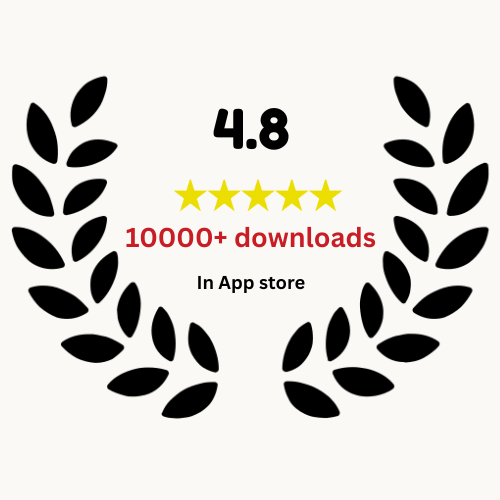
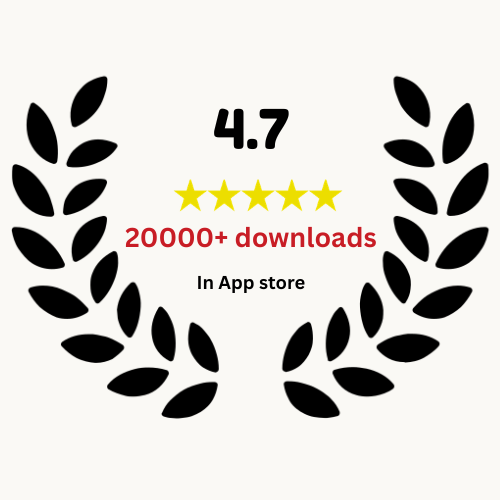
feat: Refine hero section layout and add store buttons

diff --git a/src/app/page.tsx b/src/app/page.tsx
@@ -1,25 +1,61 @@
 "use client";
 
-import React, { useState } from 'react';
+import React, { useState, useEffect } from 'react';
 import Link from 'next/link';
 import Image from 'next/image';
+
+const testimonials = [
+  "Amazing UI design and colors. Really clean and easy on the eyes",
+  "Love that weekly calendar part. So easy to see my past and next routines. Very efficient",
+  "Very clever concept with PR tracking. Other apps don't show your best specific set. Motivates me to beat it every time",
+  "Accidentally closed the app but my workout progress was saved. Great!",
+  "So easy to add custom exercises. Exactly what I needed",
+  "Always had issues searching exercises in other apps. Worried about missing spaces or hyphens, but this search actually works"
+];
+
+const faqs = [
+  {
+    question: "Why no social features?",
+    answer: "Because you are here to work out, not scroll"
+  },
+  {
+    question: "Will you add meal tracking?",
+    answer: "No. Use a dedicated nutrition app"
+  },
+  {
+    question: "Any notifications?",
+    answer: "Zero. Your workout time is sacred"
+  },
+  {
+    question: "Data export?",
+    answer: "Yes, your data stays yours"
+  },
+  {
+    question: "Can I create custom exercises?",
+    answer: "Yes, with your choice of exercise type and muscle groups. Build your workout, your way."
+  },
+  {
+    question: "Do you have training instructions?",
+    answer: "No, people use YouTube anyway. We assume you know how to exercise."
+  },
+  {
+    question: "How many exercises do you have?",
+    answer: "Nearly 1000, and we are adding constantly based on user requests."
+  }
+];
 
 export default function Home() {
   const [expandedFaq, setExpandedFaq] = useState<number | null>(null);
   const [testimonialIndex, setTestimonialIndex] = useState(0);
+  const [mounted, setMounted] = useState(false);
+
+  useEffect(() => {
+    setMounted(true);
+  }, []);
 
   const toggleFaq = (index: number) => {
     setExpandedFaq(expandedFaq === index ? null : index);
   };
-
-  const testimonials = [
-    "Amazing UI design and colors. Really clean and easy on the eyes",
-    "Love that weekly calendar part. So easy to see my past and next routines. Very efficient",
-    "Very clever concept with PR tracking. Other apps don't show your best specific set. Motivates me to beat it every time",
-    "Accidentally closed the app but my workout progress was saved. Great!",
-    "So easy to add custom exercises. Exactly what I needed",
-    "Always had issues searching exercises in other apps. Worried about missing spaces or hyphens, but this search actually works"
-  ];
 
   const nextTestimonial = () => {
     setTestimonialIndex((prev) => (prev + 1) % testimonials.length);
@@ -29,39 +65,8 @@ export default function Home() {
     setTestimonialIndex((prev) => (prev - 1 + testimonials.length) % testimonials.length);
   };
 
-  const faqs = [
-    {
-      question: "Why no social features?",
-      answer: "Because you are here to work out, not scroll"
-    },
-    {
-      question: "Will you add meal tracking?",
-      answer: "No. Use a dedicated nutrition app"
-    },
-    {
-      question: "Any notifications?",
-      answer: "Zero. Your workout time is sacred"
-    },
-    {
-      question: "Data export?",
-      answer: "Yes, your data stays yours"
-    },
-    {
-      question: "Can I create custom exercises?",
-      answer: "Yes, with your choice of exercise type and muscle groups. Build your workout, your way."
-    },
-    {
-      question: "Do you have training instructions?",
-      answer: "No, people use YouTube anyway. We assume you know how to exercise."
-    },
-    {
-      question: "How many exercises do you have?",
-      answer: "Nearly 1000, and we are adding constantly based on user requests."
-    }
-  ];
-
   return (
-    <div className="min-h-screen bg-[#FAF9F5] text-black font-['Vaground']">
+    <div className="min-h-screen bg-[#FAF9F5] text-black font-vaground">
       {/* Navigation - Simple */}
       <nav className="border-b border-gray-200 px-6 py-4 bg-[#FAF9F5]">
         <div className="max-w-6xl mx-auto flex justify-between items-center">
@@ -71,7 +76,13 @@ export default function Home() {
           </div>
           <div className="flex items-center gap-4">
             <a href="https://www.producthunt.com/products/just-log?embed=true&utm_source=badge-top-post-badge&utm_medium=badge&utm_source=badge-just&#0045;log&#0045;2" target="_blank">
-              <img src="https://api.producthunt.com/widgets/embed-image/v1/top-post-badge.svg?post_id=1010137&theme=dark&period=daily&t=1756632660193" alt="Just&#0032;Log - No&#0032;fluff&#0032;workout&#0032;tracker | Product Hunt" style={{width: '250px', height: '54px'}} width="250" height="54" />
+              <Image 
+                src="https://api.producthunt.com/widgets/embed-image/v1/top-post-badge.svg?post_id=1010137&theme=dark&period=daily&t=1756632660193" 
+                alt="Just Log - No fluff workout tracker | Product Hunt" 
+                width={250} 
+                height={54}
+                unoptimized
+              />
             </a>
           </div>
         </div>
@@ -79,56 +90,88 @@ export default function Home() {
 
       {/* Hero Section */}
       <section className="px-6 py-16 bg-[#FAF9F5]">
-        <div className="max-w-6xl mx-auto grid md:grid-cols-2 gap-12 items-center">
-          <div className="animate-slideInLeft">
-            <div className="flex mb-2">
-              <div className="ml-[7ch]">
-                <Image 
-                  src="/images/download.png" 
-                  alt="4.8 stars, 5000+ downloads in App Store" 
-                  width={100} 
-                  height={50}
-                  className="animate-fadeInUp"
-                />
-              </div>
-            </div>
+        <div className="max-w-6xl mx-auto flex flex-col md:flex-row items-center gap-12 animate-fadeInUp">
+
+          {/* Left Column — Text + Badge + Buttons */}
+          <div className="flex-1 flex flex-col items-start text-left">
             <h1 className="text-5xl md:text-6xl font-bold mb-4 leading-tight text-black">
               Just Log.<br />
               <span className="text-[#c81d25]">No Fluff.</span>
             </h1>
-            <h2 className="text-xl text-gray-700 mb-6">
+            <h2 className="text-xl text-gray-700 mb-4">
               The workout tracker that gets out of your way.
             </h2>
-            <p className="text-lg text-gray-800 mb-6 leading-relaxed">
-            🏋 Log it fast. See your progress. Stay consistent.<br/>
-            Track it → Beat it → Get stronger 💪
-                        </p>
+            <p className="text-lg text-gray-800 mb-8 leading-relaxed">
+              🏋 Log it fast. See your progress. Stay consistent.<br/>
+              Track it → Beat it → Get stronger 💪
+            </p>
+
+            {/* Download Badge */}
+            <div className="flex items-center gap-3 mb-6 animate-fadeInUp">
+              <Image 
+                src="/images/oliveleft.png" 
+                alt="Left Olive Branch" 
+                width={32} 
+                height={64}
+                className="object-contain"
+              />
+              <div className="flex flex-col items-center justify-center">
+                <span className="font-bold text-xl text-black leading-none mb-1">4.7</span>
+                <div className="flex text-[#FFB800] text-sm leading-none mb-1 tracking-[0.1em]">
+                  ★★★★★
+                </div>
+                <span className="text-[11px] font-sans font-bold text-[#c81d25] leading-none mb-0.5">20000+ downloads</span>
+                <span className="text-[9px] font-sans text-gray-500 font-medium leading-none">in App Store</span>
+              </div>
+              <Image 
+                src="/images/oliveright.png" 
+                alt="Right Olive Branch" 
+                width={32} 
+                height={64}
+                className="object-contain"
+              />
+            </div>
+
+            {/* Download Buttons */}
             <div className="flex flex-col sm:flex-row gap-4">
               <button 
-                onClick={() => window.open('https://play.google.com/store/apps/details?id=com.rimapps.justlog', '_blank')}
-                className="border-2 border-[#c81d25] bg-[#c81d25] text-white px-8 py-3 rounded-lg text-lg hover:bg-[#d80032] hover:scale-105 transition-all duration-300 flex items-center justify-center gap-2 hover:shadow-lg"
+                onClick={() => window.open('https://apps.apple.com/us/app/workout-tracking-justlog/id6749898793', '_blank')}
+                className="hover:scale-105 transition-transform duration-300"
               >
-                <Image src="/images/playstore.png" alt="Play Store" width={24} height={24} />
-                Download for Android
+                <Image 
+                  src="/images/app-store.png" 
+                  alt="Download on the App Store" 
+                  width={150} 
+                  height={45} 
+                  className="object-contain"
+                />
               </button>
               <button 
-                onClick={() => window.open('https://apps.apple.com/us/app/workout-tracking-justlog/id6749898793', '_blank')}
-                className="border-2 border-[#c81d25] bg-white text-[#c81d25] px-8 py-3 rounded-lg text-lg hover:bg-gray-50 hover:scale-105 transition-all duration-300 flex items-center justify-center gap-2 hover:shadow-lg"
+                onClick={() => window.open('https://play.google.com/store/apps/details?id=com.rimapps.justlog', '_blank')}
+                className="hover:scale-105 transition-transform duration-300"
               >
-                <Image src="/images/apple.png" alt="App Store" width={24} height={24} />
-                Download for iOS
+                <Image 
+                  src="/images/google-play.png" 
+                  alt="Get it on Google Play" 
+                  width={150} 
+                  height={45} 
+                  className="object-contain"
+                />
               </button>
             </div>
           </div>
-          <div className="flex justify-center animate-slideInRight">
+
+          {/* Right Column — App Screenshot */}
+          <div className="flex-shrink-0 flex justify-center animate-slideInRight">
             <Image 
               src="/images/gymlogauthpage.png" 
               alt="Just Log Auth Page"
-              width={320}
-              height={640}
+              width={300}
+              height={600}
               className="rounded-xl shadow-2xl border border-gray-300 animate-float"
             />
           </div>
+
         </div>
       </section>
 
@@ -350,7 +393,9 @@ export default function Home() {
               <div 
                 className="flex gap-8 transition-transform duration-500 ease-in-out"
                 style={{
-                  transform: `translateX(calc(50% - ${(testimonialIndex + testimonials.length) * 320}px - 160px))`
+                  transform: mounted 
+                    ? `translateX(calc(50% - ${(testimonialIndex + testimonials.length) * 320}px - 160px))`
+                    : 'translateX(0)'
                 }}
               >
                 {/* Triple the testimonials for infinite effect */}
@@ -608,18 +653,28 @@ export default function Home() {
           <p className="text-xl mb-8 text-gray-300">Join thousands who&apos;ve ditched the bloated fitness apps</p>
           <div className="flex flex-col sm:flex-row gap-4 justify-center">
             <button 
-              onClick={() => window.open('https://play.google.com/store/apps/details?id=com.rimapps.justlog', '_blank')}
-              className="border-2 border-[#c81d25] bg-[#c81d25] text-white px-8 py-3 rounded-lg text-lg hover:bg-[#d80032] transition-colors flex items-center justify-center gap-2"
+              onClick={() => window.open('https://apps.apple.com/us/app/workout-tracking-justlog/id6749898793', '_blank')}
+              className="hover:scale-105 transition-transform duration-300 flex justify-center"
             >
-              <Image src="/images/playstore.png" alt="Play Store" width={24} height={24} />
-              Download for Android
+              <Image 
+                src="/images/app-store.png" 
+                alt="Download on the App Store" 
+                width={150} 
+                height={45} 
+                className="object-contain"
+              />
             </button>
             <button 
-              onClick={() => window.open('https://apps.apple.com/us/app/workout-tracking-justlog/id6749898793', '_blank')}
-              className="border-2 border-[#c81d25] bg-white text-[#c81d25] px-8 py-3 rounded-lg text-lg hover:bg-gray-100 transition-colors flex items-center justify-center gap-2"
+              onClick={() => window.open('https://play.google.com/store/apps/details?id=com.rimapps.justlog', '_blank')}
+              className="hover:scale-105 transition-transform duration-300 flex justify-center"
             >
-              <Image src="/images/apple.png" alt="App Store" width={24} height={24} />
-              Download for iOS
+              <Image 
+                src="/images/google-play.png" 
+                alt="Get it on Google Play" 
+                width={150} 
+                height={45} 
+                className="object-contain"
+              />
             </button>
           </div>
         </div>

diff --git a/src/app/terms/page.tsx b/src/app/terms/page.tsx
@@ -4,7 +4,7 @@ import Image from 'next/image';
 
 export default function TermsOfService() {
   return (
-    <div className="min-h-screen bg-white text-black font-['Vaground']">
+    <div className="min-h-screen bg-white text-black font-vaground">
       {/* Navigation */}
       <nav className="border-b border-gray-200 px-6 py-4">
         <div className="max-w-6xl mx-auto flex justify-between items-center">

diff --git a/src/app/privacy/page.tsx b/src/app/privacy/page.tsx
@@ -4,7 +4,7 @@ import Image from 'next/image';
 
 export default function PrivacyPolicy() {
   return (
-    <div className="min-h-screen bg-white text-black font-['Vaground']">
+    <div className="min-h-screen bg-white text-black font-vaground">
       {/* Navigation */}
       <nav className="border-b border-gray-200 px-6 py-4">
         <div className="max-w-6xl mx-auto flex justify-between items-center">
